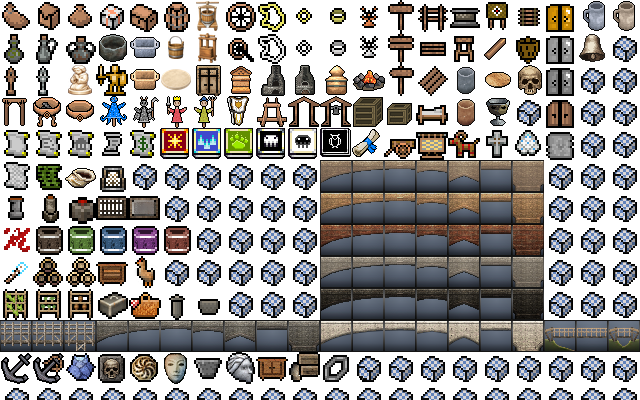
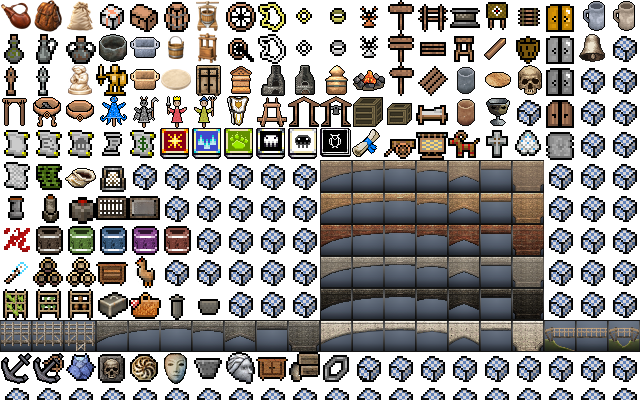
Release v0.1.25

Changed region(s): [[0.0, 0.0, 0.1562, 0.09]]

diff --git a/src/main/java/org/wurmhighres/client/IconOverrides.java b/src/main/java/org/wurmhighres/client/IconOverrides.java
@@ -28,6 +28,8 @@ public final class IconOverrides {
     private static final String WINE_BARREL_RESOURCE = "img.wurmhighres.winebarrel";
     private static final String SMELTING_POT_RESOURCE = "img.wurmhighres.smeltingpot";
     private static final String BRANDING_IRON_RESOURCE = "img.wurmhighres.brandingiron";
+    private static final String GLAND_RESOURCE = "img.wurmhighres.gland";
+    private static final String TWISTED_HORN_RESOURCE = "img.wurmhighres.twistedhorn";
     private static final String HIDE_RESOURCE = "img.wurmhighres.hide";
     private static final String LEATHER_RESOURCE = "img.wurmhighres.leather";
     private static final String DRAKE_HIDE_RESOURCE_PREFIX = "img.wurmhighres.drakehide.";
@@ -39,6 +41,8 @@ public final class IconOverrides {
     private static final short SHARED_BARREL_ICON_ID = 245;
     private static final short POTTERY_BOWL_SMELTING_POT_ICON_ID = 511;
     private static final short PLIERS_BRANDING_IRON_ICON_ID = 780;
+    private static final short HORN_TWISTED_HORN_ICON_ID = 496;
+    private static final short BLADDER_GLAND_ICON_ID = 515;
 
     private static final Map<String, Texture> ICON_CACHE =
             new ConcurrentHashMap<String, Texture>();
@@ -60,6 +64,10 @@ public final class IconOverrides {
         }
         if (isBrandingIron(item.getType(), itemDescriptor(item))) {
             return icon(BRANDING_IRON_RESOURCE, original);
+        }
+        String anatomyResource = anatomyResource(item.getType(), itemDescriptor(item));
+        if (anatomyResource != null) {
+            return icon(anatomyResource, original);
         }
         String containerResource = containerResource(
                 item.getType(), itemDescriptor(item), item.getWeight());
@@ -98,6 +106,10 @@ public final class IconOverrides {
         if (isBrandingIron(PLIERS_BRANDING_IRON_ICON_ID, name)) {
             return icon(BRANDING_IRON_RESOURCE, original);
         }
+        String anatomyResource = anatomyResourceFromName(name);
+        if (anatomyResource != null) {
+            return icon(anatomyResource, original);
+        }
         String containerResource = containerResource(SHARED_BARREL_ICON_ID, name, 0.0f);
         if (containerResource != null) {
             return icon(containerResource, original);
@@ -130,6 +142,11 @@ public final class IconOverrides {
         if (isBrandingIron(iconId, name + " " + groundDescriptor(groundItemId))) {
             return icon(BRANDING_IRON_RESOURCE, original);
         }
+        String anatomyResource = anatomyResource(
+                iconId, name + " " + groundDescriptor(groundItemId));
+        if (anatomyResource != null) {
+            return icon(anatomyResource, original);
+        }
         String containerResource = containerResource(
                 iconId, name + " " + groundDescriptor(groundItemId), 0.0f);
         if (containerResource != null) {
@@ -150,6 +167,7 @@ public final class IconOverrides {
                 || isPress(baseName)
                 || isSmeltingPot(POTTERY_BOWL_SMELTING_POT_ICON_ID, baseName)
                 || isBrandingIron(PLIERS_BRANDING_IRON_ICON_ID, baseName)
+                || anatomyResourceFromName(baseName) != null
                 || containerResource(SHARED_BARREL_ICON_ID, baseName, 0.0f) != null
                 || materialResourceFromName(baseName) != null;
     }
@@ -205,6 +223,33 @@ public final class IconOverrides {
         String normalized = normalize(descriptor).replace('.', ' ').replace('_', ' ');
         return normalized.contains("branding iron")
                 || normalized.contains("brandingiron");
+    }
+
+    static String anatomyResource(short iconId, String descriptor) {
+        String normalized = normalize(descriptor).replace('.', ' ').replace('_', ' ');
+        if (iconId == HORN_TWISTED_HORN_ICON_ID && normalized.contains("twisted horn")) {
+            return TWISTED_HORN_RESOURCE;
+        }
+        if (iconId == BLADDER_GLAND_ICON_ID && containsWord(normalized, "gland")) {
+            return GLAND_RESOURCE;
+        }
+        return null;
+    }
+
+    private static String anatomyResourceFromName(String name) {
+        String normalized = normalize(name).replace('.', ' ').replace('_', ' ');
+        if (normalized.equals("twisted horn")
+                || normalized.startsWith("twisted horn,")
+                || normalized.startsWith("twisted horn (")) {
+            return TWISTED_HORN_RESOURCE;
+        }
+        if (normalized.equals("gland")
+                || normalized.equals("glands")
+                || normalized.startsWith("gland,")
+                || normalized.startsWith("gland (")) {
+            return GLAND_RESOURCE;
+        }
+        return null;
     }
 
     static String materialResource(short iconId, String name, float r, float g, float b) {

diff --git a/src/test/java/org/wurmhighres/client/AtlasContractTest.java b/src/test/java/org/wurmhighres/client/AtlasContractTest.java
@@ -45,16 +45,25 @@ public class AtlasContractTest {
     private static void verifyPack(File project, String packDirectory) throws Exception {
         BufferedImage misc = readAtlas(project, packDirectory, "misc.png", 640, 400);
         BufferedImage resource = readAtlas(project, packDirectory, "resource.png", 640, 384);
+        BufferedImage resource2 = readAtlas(project, packDirectory, "resource2.png", 640, 384);
         BufferedImage tools = readAtlas(project, packDirectory, "tools.png", 640, 384);
         BufferedImage weapons = readAtlas(project, packDirectory, "weapons.png", 640, 400);
 
-        assertCellVisible(misc, 282);
+        int[] miscIds = {240, 241, 242, 282};
+        for (int id : miscIds) {
+            assertCellVisible(misc, id);
+        }
         assertCellVisible(resource, 520);
         assertCellVisible(resource, 602);
         assertCellVisible(resource, 621);
+        int[] anatomyIds = {495, 496, 498, 514, 515, 534, 535, 603};
+        for (int id : anatomyIds) {
+            assertCellVisible(resource, id);
+        }
+        assertCellVisible(resource2, 1489);
 
         int[] toolIds = {738, 741, 742, 743, 745, 746, 747, 749, 750, 752,
-                754, 755, 780, 802, 803, 882, 902};
+                754, 755, 760, 766, 780, 802, 803, 882, 902};
         for (int id : toolIds) {
             assertCellVisible(tools, id);
         }
@@ -63,6 +72,7 @@ public class AtlasContractTest {
         assertCellVisible(weapons, 1207);
 
         String[] customMaterials = {
+                "gland.png", "twisted-horn.png",
                 "hide.png", "leather.png",
                 "drake-hide-black.png", "drake-hide-blue.png",
                 "drake-hide-green.png", "drake-hide-red.png",

diff --git a/src/test/java/org/wurmhighres/client/IconOverridesTest.java b/src/test/java/org/wurmhighres/client/IconOverridesTest.java
@@ -86,6 +86,24 @@ public class IconOverridesTest {
     }
 
     @Test
+    public void anatomyItemsSharingAtlasCellsGetDistinctResources() {
+        assertEquals("img.wurmhighres.twistedhorn", IconOverrides.anatomyResource(
+                (short) 496, "twisted horn"));
+        assertNull(IconOverrides.anatomyResource((short) 496, "horn"));
+        assertNull(IconOverrides.anatomyResource((short) 495, "twisted horn"));
+
+        assertEquals("img.wurmhighres.gland", IconOverrides.anatomyResource(
+                (short) 515, "gland"));
+        assertNull(IconOverrides.anatomyResource((short) 515, "bladder"));
+        assertNull(IconOverrides.anatomyResource((short) 514, "gland"));
+
+        assertTrue(IconOverrides.hasCustomIcon("twisted horn"));
+        assertTrue(IconOverrides.hasCustomIcon("gland"));
+        assertFalse(IconOverrides.hasCustomIcon("horn"));
+        assertFalse(IconOverrides.hasCustomIcon("bladder"));
+    }
+
+    @Test
     public void largeAnvilCanBeSeparatedFromSmallAnvilSharingIcon791() {
         assertTrue(IconOverrides.isLargeAnvil((short) 791, 10.0f, "anvil"));
         assertTrue(IconOverrides.isLargeAnvil((short) 791, 10000.0f, "anvil"));

diff --git a/src/main/java/org/wurmhighres/client/WurmHighresMod.java b/src/main/java/org/wurmhighres/client/WurmHighresMod.java
@@ -52,7 +52,7 @@ public final class WurmHighresMod implements WurmClientMod, Configurable, PreIni
 
     @Override
     public void init() {
-        LOGGER.info("wurm-highres 0.1.24 initialized; iconStyle="
+        LOGGER.info("wurm-highres 0.1.25 initialized; iconStyle="
                 + WurmHighresSettings.iconStyle);
     }
 

diff --git a/README.md b/README.md
@@ -6,8 +6,8 @@ WURM High-Res Icons is a client-side visual mod for Wurm Unlimited. It replaces 
 
 ## Features
 
-- Detailed 32×32 icons for Inventory, Toolbelt, Equipment and Build/Creation windows.
-- Separate artwork for many items that share one vanilla icon ID, including carving knife / stone chisel, small / large anvil, leather / hide / pelt, pottery bowl / smelting pot, press / fruit press and several barrel types.
+- Detailed 32×32 icons for Inventory, Toolbelt, Equipment and Build/Creation windows, including backpack, bladder, fat, feather, fur, gland, hoof, horn, leather knife, paw, quiver, satchel, tail, tooth, twisted horn and water skin.
+- Separate artwork for many items that share one vanilla icon ID, including carving knife / stone chisel, small / large anvil, leather / hide / pelt, bladder / gland, horn / twisted horn, pottery bowl / smelting pot, press / fruit press and several barrel types.
 - Separate muted-color drake-hide and dragon-scale icons for black, blue, green, red and white dragons.
 - Animated rare, supreme and fantastic highlighting: irregular pulsing blob (default) or rotating five-point star, with an optional white shimmer.
 - Runtime resource packs: the mod does not overwrite `packs/graphics.jar`.
@@ -24,7 +24,7 @@ WURM High-Res Icons is a client-side visual mod for Wurm Unlimited. It replaces 
 Download the latest ZIP from [GitHub Releases](https://github.com/chamomilo/wurm-high-res-icons/releases/latest).
 
 1. Close Wurm Unlimited.
-2. Extract `WURM-High-Res-Icons-0.1.24.zip` into the `WurmLauncher` folder.
+2. Extract `WURM-High-Res-Icons-0.1.25.zip` into the `WurmLauncher` folder.
 3. Keep the included `mods` directory structure.
 4. Start the client through Ago's Client ModLauncher.
 
